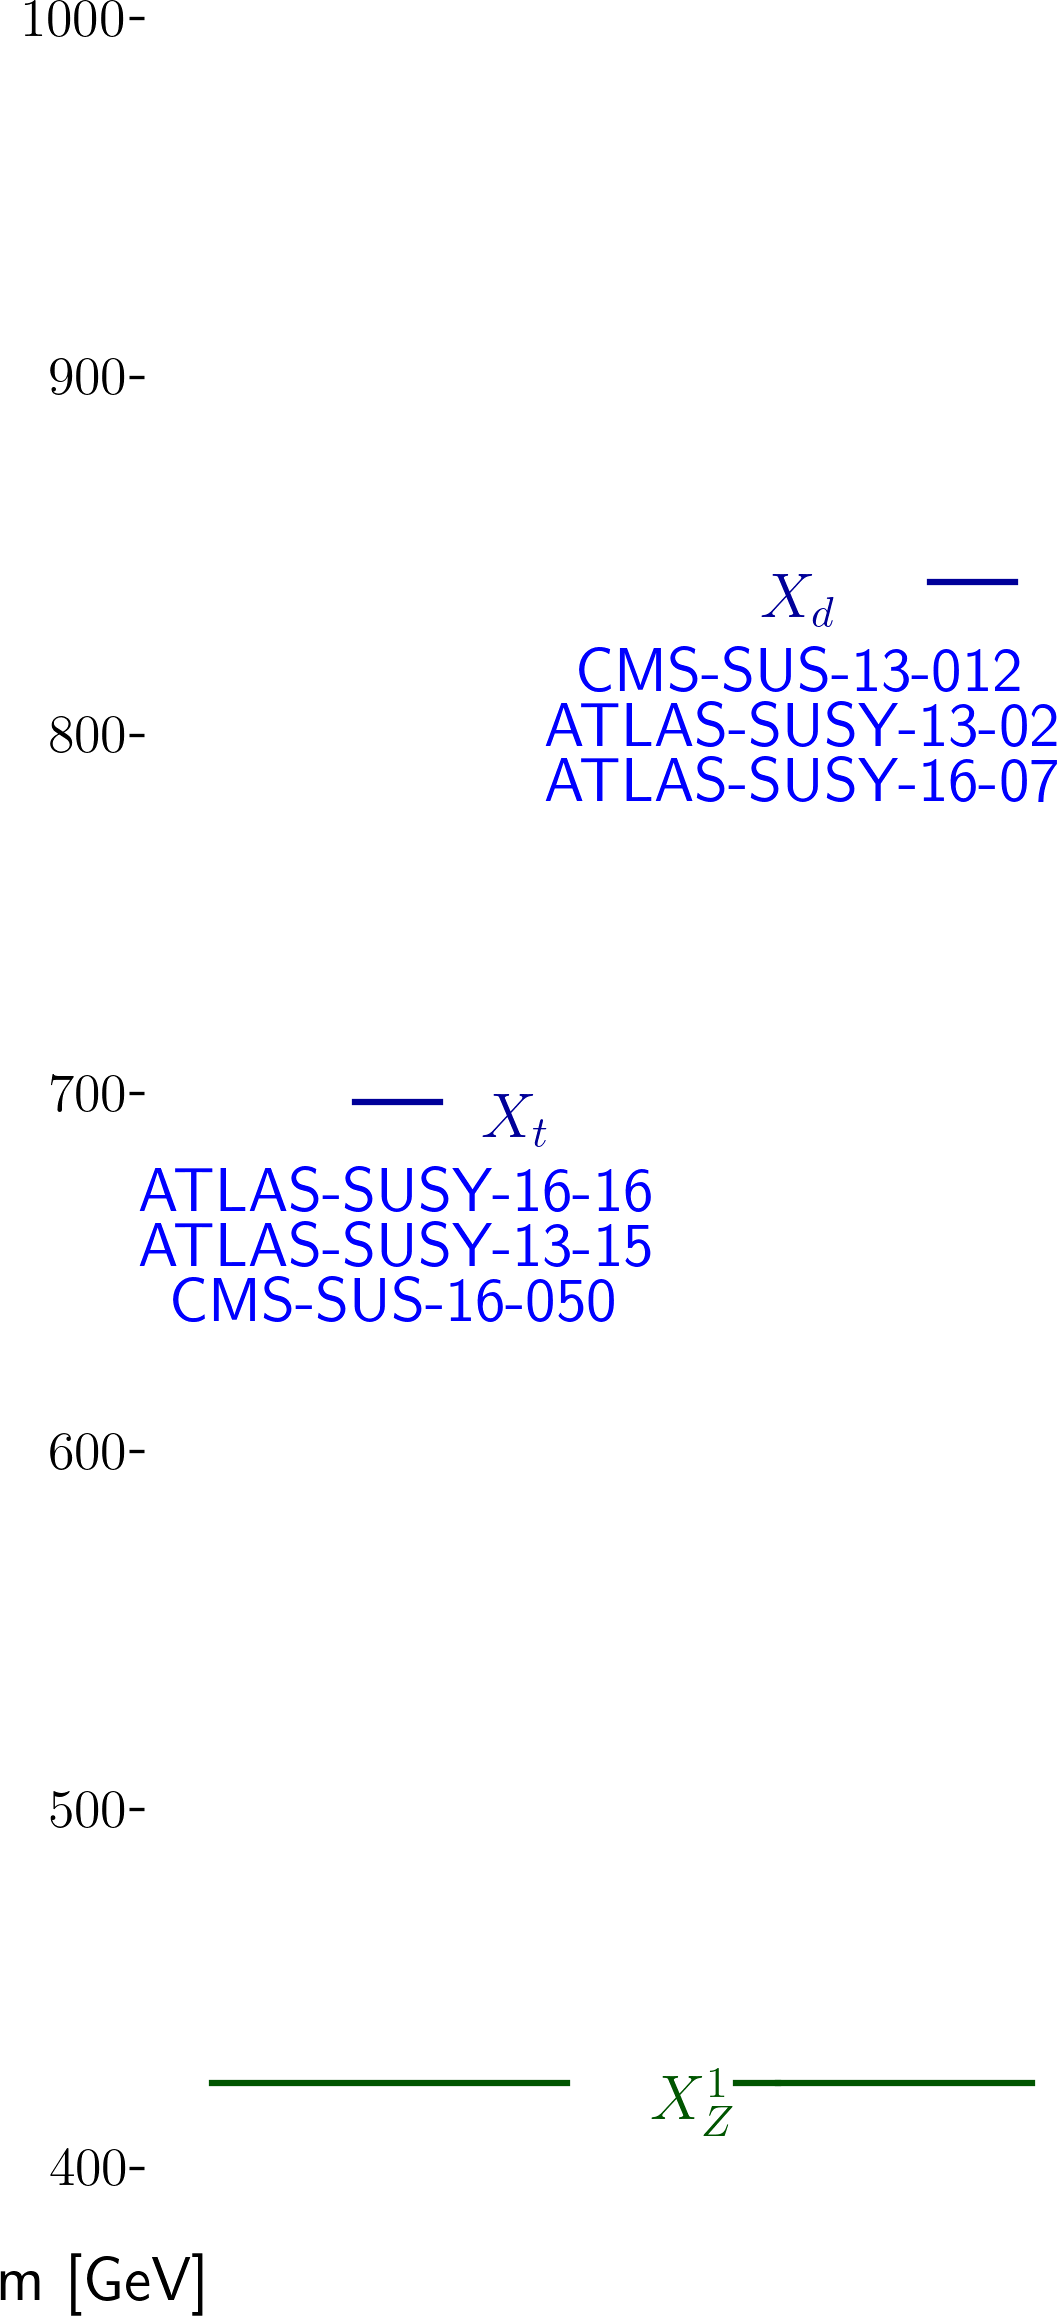
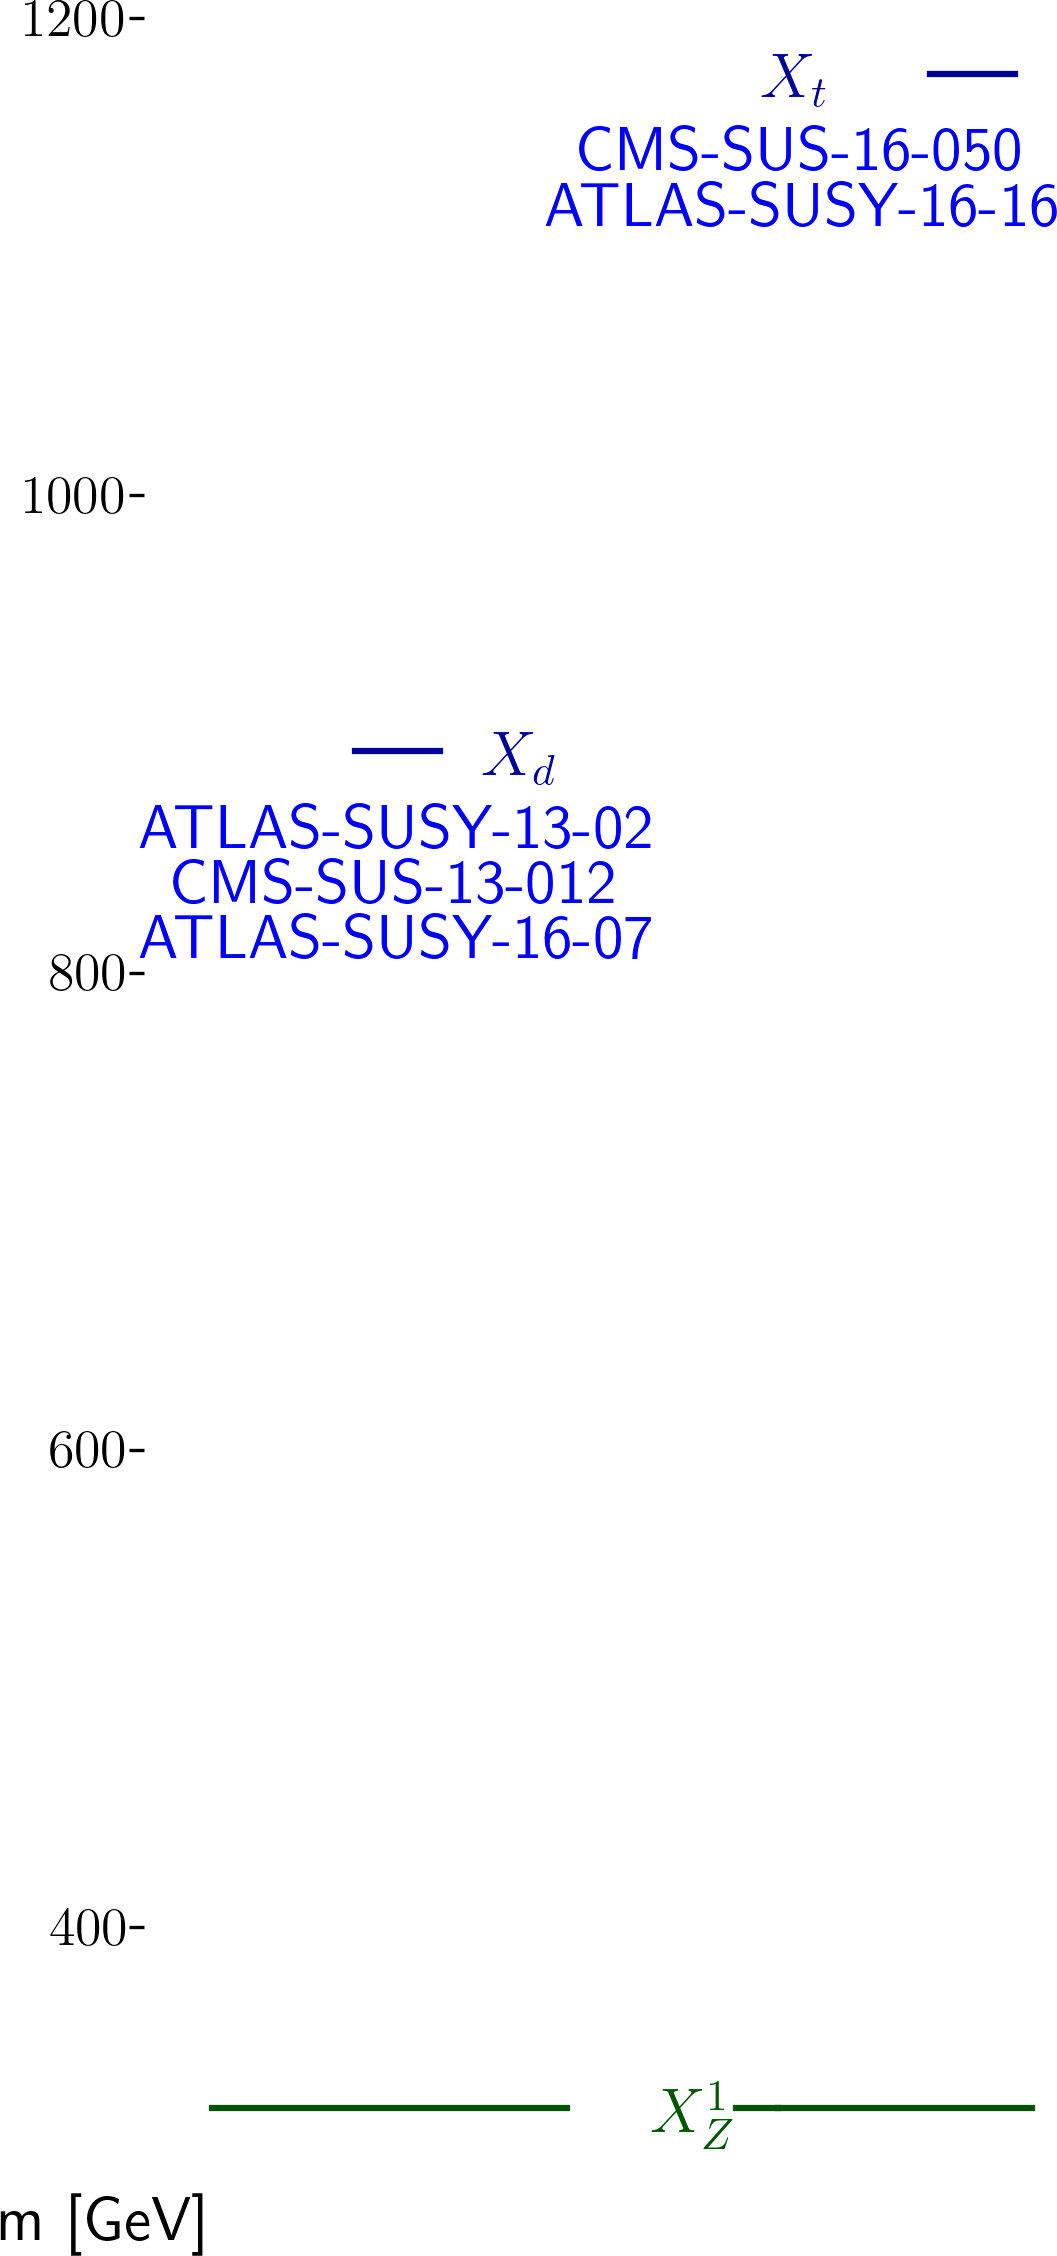
automated update by plotHiscore.py to /scratch-cbe/users/wolfgan.waltenberger/git/smodels.github.io/protomodels

diff --git a/protomodels/2020_PioneerStudy/real8/index.html b/protomodels/2020_PioneerStudy/real8/index.html
@@ -1,31 +1,30 @@
 <html>
 <body>
 <center>
-<table><td><h1>Current best protomodel: K=7.12</h1><td><img height=60px src=https://smodels.github.io/pics/banner.png></table>
+<table><td><h1>Current best protomodel: K=6.79</h1><td><img height=60px src=https://smodels.github.io/pics/banner.png></table>
 </center>
-<b><a href=./hiscore.slha>ProtoModel</a> <a href=./pmodel.py>(dict)</a> produced with <a href=https://smodels.github.io/docs/Validation124>database v1.2.4</a>, combination strategy <a href=./matrix_aggressive.png>aggressive</a> in walker 30 step 208.</b> K plots for: <a href=./M1000022.png?9866509>X<sub>Z</sub><sup>1</sup></a>, <a href=./M1000001.png?9866509>X<sub>d</sub></a>, <a href=./M1000006.png?9866509>X<sub>t</sub></a>. HPD plots for: <a href=./llhd1000001.png?9866509>X<sub>d</sub></a>, <a href=./llhd1000006.png?9866509>X<sub>t</sub></a>. SSM plots for: <a href=./ssm_-1000006_1000006.png?9866509>(x&#772;<sub>t</sub>,X<sub>t</sub>)</a><br>
+<b><a href=./hiscore.slha>ProtoModel</a> <a href=./pmodel.py>(dict)</a> produced with <a href=https://smodels.github.io/docs/Validation????>database v????</a>, combination strategy <a href=./matrix_aggressive.png>aggressive</a> in walker 0 step 664.</b> K plots for: <a href=./M1000022.png?14865144>X<sub>Z</sub><sup>1</sup></a>, <a href=./M1000006.png?14865144>X<sub>t</sub></a>, <a href=./M1000001.png?14865144>X<sub>d</sub></a>. HPD plots for: <a href=./llhd1000006.png?14865144>X<sub>t</sub></a>, <a href=./llhd1000001.png?14865144>X<sub>d</sub></a>. SSM plots for: <a href=./ssm_-1000006_1000006.png?14865144>(x&#772;<sub>t</sub>,X<sub>t</sub>)</a><br>
 <table width=80%>
 <tr><td>
-<br><b>33 predictions available. Highest r values are:</b><br><ul>
-<li><a href=http://cms-results.web.cern.ch/cms-results/public-results/publications/SUS-19-006/index.html>CMS-SUS-19-006</a>:T2tt r=1.30, r<sub>exp</sub>=0.82<br>
-<li><a href=http://cms-results.web.cern.ch/cms-results/public-results/publications/SUS-16-033/index.html>CMS-SUS-16-033</a>:T2 r=1.20, r<sub>exp</sub>=0.79<br>
-<li><a href=http://cms-results.web.cern.ch/cms-results/public-results/publications/SUS-19-006/index.html>CMS-SUS-19-006</a>:T2 r=1.17, r<sub>exp</sub>=1.04<br>
-<li><a href=http://cms-results.web.cern.ch/cms-results/public-results/publications/SUS-16-036/index.html>CMS-SUS-16-036</a>:T2 r=0.94, r<sub>exp</sub>=0.68<br>
-<li><a href=http://cms-results.web.cern.ch/cms-results/public-results/publications/SUS-16-049/index.html>CMS-SUS-16-049</a>:T2tt r=0.72, r<sub>exp</sub>=0.65<br>
+<br><b>24 predictions available. Highest r values are:</b><br><ul>
+<li><a href=http://cms-results.web.cern.ch/cms-results/public-results/publications/SUS-19-006/index.html>CMS-SUS-19-006</a>:T2 r=1.30, r<sub>exp</sub>=1.12<br>
+<li><a href=http://cms-results.web.cern.ch/cms-results/public-results/publications/SUS-16-033/index.html>CMS-SUS-16-033</a>:T2 r=1.10, r<sub>exp</sub>=0.82<br>
+<li><a href=http://cms-results.web.cern.ch/cms-results/public-results/publications/SUS-19-006/index.html>CMS-SUS-19-006</a>:T2tt r=1.09, r<sub>exp</sub>=1.03<br>
+<li><a href=http://cms-results.web.cern.ch/cms-results/public-results/publications/SUS-16-036/index.html>CMS-SUS-16-036</a>:T2 r=0.80, r<sub>exp</sub>=0.77<br>
+<li><a href=http://cms-results.web.cern.ch/cms-results/public-results/publications/SUS-16-051/index.html>CMS-SUS-16-051</a>:T2tt r=0.79, r<sub>exp</sub>=0.52<br>
 </ul>
 <td><br><b>K values without analyses: (contribution)</b><br>
 <ul>
-<li> <a href=https://twiki.cern.ch/twiki/bin/view/CMSPublic/PhysicsResultsSUS13012>CMS-SUS-13-012</a>: 3.35 (13%)
-<li> <a href=http://cms-results.web.cern.ch/cms-results/public-results/publications/SUS-16-050/index.html>CMS-SUS-16-050</a>: 3.35 (13%)
-<li> <a href=https://atlas.web.cern.ch/Atlas/GROUPS/PHYSICS/PAPERS/SUSY-2013-02/>ATLAS-SUSY-2013-02</a>: 3.27 (13%)
-<li> <a href=https://atlas.web.cern.ch/Atlas/GROUPS/PHYSICS/PAPERS/SUSY-2013-15/>ATLAS-SUSY-2013-15</a>: 2.99 (14%)
-<li> <a href=https://atlas.web.cern.ch/Atlas/GROUPS/PHYSICS/PAPERS/SUSY-2016-16/>ATLAS-SUSY-2016-16</a>: 1.63 (19%)
-<li> <a href=https://atlas.web.cern.ch/Atlas/GROUPS/PHYSICS/PAPERS/SUSY-2016-07/>ATLAS-SUSY-2016-07</a>: -1.07 (28%)
-<td><img width=600px src=./texdoc.png?1602866509>
-<br><font size=-1>Last updated: Fri Oct 16 18:41:49 2020</font>
+<li> <a href=http://cms-results.web.cern.ch/cms-results/public-results/publications/SUS-16-050/index.html>CMS-SUS-16-050</a>: 3.60 (14%)
+<li> <a href=https://twiki.cern.ch/twiki/bin/view/CMSPublic/PhysicsResultsSUS13012>CMS-SUS-13-012</a>: 3.60 (14%)
+<li> <a href=https://atlas.web.cern.ch/Atlas/GROUPS/PHYSICS/PAPERS/SUSY-2013-02/>ATLAS-SUSY-2013-02</a>: 3.55 (14%)
+<li> <a href=https://atlas.web.cern.ch/Atlas/GROUPS/PHYSICS/PAPERS/SUSY-2016-16/>ATLAS-SUSY-2016-16</a>: 1.18 (25%)
+<li> <a href=https://atlas.web.cern.ch/Atlas/GROUPS/PHYSICS/PAPERS/SUSY-2016-07/>ATLAS-SUSY-2016-07</a>: -0.81 (33%)
+<td><img width=600px src=./texdoc.png?1607865144>
+<br><font size=-1>Last updated: Sun Dec 13 14:12:24 2020</font>
 </table><table style="width:80%">
-<td width=45%><img height=580px src=./ruler.png?1602866509><td width=55%><img height=380px src=./decays.png?1602866509>
-<font size=-3><iframe type="text/html" height="220px" width="100%s" frameborder="0" src="./rawnumbers.html?1602866509"></iframe></font>
+<td width=45%><img height=580px src=./ruler.png?1607865144><td width=55%><img height=380px src=./decays.png?1607865144>
+<font size=-3><iframe type="text/html" height="220px" width="100%s" frameborder="0" src="./rawnumbers.html?1607865144"></iframe></font>
 </table>
 </body>
 </html>

diff --git a/protomodels/2020_PioneerStudy/real8/rawnumbers.html b/protomodels/2020_PioneerStudy/real8/rawnumbers.html
@@ -2,9 +2,8 @@
 <tr><th>Analysis Name</th><th>Type</th><th>Dataset</th><th>Topos</th><th>Observed</th><th>Expected</th><th>Approx &sigma;</th><th>Particles</th>
 </tr>
 <tr><td><a href=https://atlas.web.cern.ch/Atlas/GROUPS/PHYSICS/PAPERS/SUSY-2013-02/>ATLAS-SUSY-2013-02</a></td><td>em</td> <td>SR6jtp</td><td>T2</td><td>6</td><td>4.9 +/- 1.6</td><td style="text-align:right">0.4 &sigma;</td><td style="text-align:right">X<sub>d</sub></td></tr>
-<tr><td><a href=https://atlas.web.cern.ch/Atlas/GROUPS/PHYSICS/PAPERS/SUSY-2013-15/>ATLAS-SUSY-2013-15</a></td><td>em</td> <td>tNboost</td><td>T2tt</td><td>5</td><td>3.3 +/- 0.7</td><td style="text-align:right">0.9 &sigma;</td><td style="text-align:right">X<sub>t</sub></td></tr>
 <tr><td><a href=https://atlas.web.cern.ch/Atlas/GROUPS/PHYSICS/PAPERS/SUSY-2016-07/>ATLAS-SUSY-2016-07</a></td><td>em</td> <td>2j_Meff_1200</td><td>T2</td><td>611</td><td>526 +/- 31</td><td style="text-align:right">2.2 &sigma;</td><td style="text-align:right">X<sub>d</sub></td></tr>
-<tr><td><a href=https://atlas.web.cern.ch/Atlas/GROUPS/PHYSICS/PAPERS/SUSY-2016-16/>ATLAS-SUSY-2016-16</a></td><td>em</td> <td>tN_med</td><td>T2tt</td><td>50</td><td>36.3 +/- 6.6</td><td style="text-align:right">1.5 &sigma;</td><td style="text-align:right">X<sub>t</sub></td></tr>
-<tr><td><a href=https://twiki.cern.ch/twiki/bin/view/CMSPublic/PhysicsResultsSUS13012>CMS-SUS-13-012</a></td><td>ul</td> <td>-</td><td>T2</td><td> 49.6 fb </td><td> 30.0 fb</td><td style="text-align:right">1.3 &sigma;</td><td style="text-align:right">X<sub>d</sub></td></tr>
-<tr><td><a href=http://cms-results.web.cern.ch/cms-results/public-results/publications/SUS-16-050/index.html>CMS-SUS-16-050</a></td><td>ul</td> <td>-</td><td>T2tt</td><td> 193.6 fb </td><td> 87.5 fb</td><td style="text-align:right">2.4 &sigma;</td><td style="text-align:right">X<sub>t</sub></td></tr>
+<tr><td><a href=https://atlas.web.cern.ch/Atlas/GROUPS/PHYSICS/PAPERS/SUSY-2016-16/>ATLAS-SUSY-2016-16</a></td><td>em</td> <td>tN_high</td><td>T2tt</td><td>8</td><td>3.8 +/- 1</td><td style="text-align:right">1.9 &sigma;</td><td style="text-align:right">X<sub>t</sub></td></tr>
+<tr><td><a href=https://twiki.cern.ch/twiki/bin/view/CMSPublic/PhysicsResultsSUS13012>CMS-SUS-13-012</a></td><td>ul</td> <td>-</td><td>T2</td><td> 21.0 fb </td><td> 12.8 fb</td><td style="text-align:right">1.3 &sigma;</td><td style="text-align:right">X<sub>d</sub></td></tr>
+<tr><td><a href=http://cms-results.web.cern.ch/cms-results/public-results/publications/SUS-16-050/index.html>CMS-SUS-16-050</a></td><td>ul</td> <td>-</td><td>T2tt</td><td> 4.9 fb </td><td> 2.7 fb</td><td style="text-align:right">1.5 &sigma;</td><td style="text-align:right">X<sub>t</sub></td></tr>
 </table>

diff --git a/protomodels/2020_PioneerStudy/real8/pmodel.py b/protomodels/2020_PioneerStudy/real8/pmodel.py
@@ -1,1 +1,1 @@
-{'masses': {1000022: 413.551, 1000001: 832.602, 1000006: 687.383}, 'ssmultipliers': {(1000022, 1000022): 0.0, (1000001, 1000001): 1.343, (-1000001, 1000001): 1.343, (-1000001, -1000001): 1.343, (1000001, 1000022): 1.343, (-1000001, 1000022): 1.343, (1000006, 1000006): 0.619, (-1000006, 1000006): 0.619, (-1000006, -1000006): 0.619, (1000006, 1000022): 0.619, (-1000006, 1000022): 0.619, (1000001, 1000006): 0.619, (-1000006, 1000001): 0.619, (-1000001, 1000006): 0.619, (-1000006, -1000001): 0.992}, 'decays': {1000022: {}, 1000001: {(1000022, 1): 1.0}, 1000006: {(1000022, 6): 1.0}}, 'timestamp': 'Fri Oct 16 18:41:15 2020', 'Z': 3.266, 'K': 7.12, 'walkerid': 30, 'step': 208, 'codever': '1.0', 'dbver': '1.2.4'}
+{'masses': {1000022: 314.235, 1000006: 1166.709, 1000001: 882.719}, 'ssmultipliers': {(1000022, 1000022): 0.0, (1000006, 1000006): 1.181, (-1000006, 1000006): 1.22, (-1000006, -1000006): 1.181, (1000006, 1000022): 1.181, (-1000006, 1000022): 1.181, (1000001, 1000001): 1.102, (-1000001, 1000001): 1.102, (-1000001, -1000001): 1.102, (1000001, 1000022): 1.102, (-1000001, 1000022): 1.102, (1000001, 1000006): 0.903, (-1000001, 1000006): 0.903, (-1000006, 1000001): 0.903, (-1000006, -1000001): 0.903}, 'decays': {1000022: {}, 1000006: {(1000022, 6): 1.0}, 1000001: {(1000022, 1): 1.0}}, 'timestamp': 'Sun Dec 13 14:12:17 2020', 'Z': 3.215, 'K': 6.789, 'walkerid': 0, 'step': 664, 'codever': '1.0', 'dbver': '????'}
